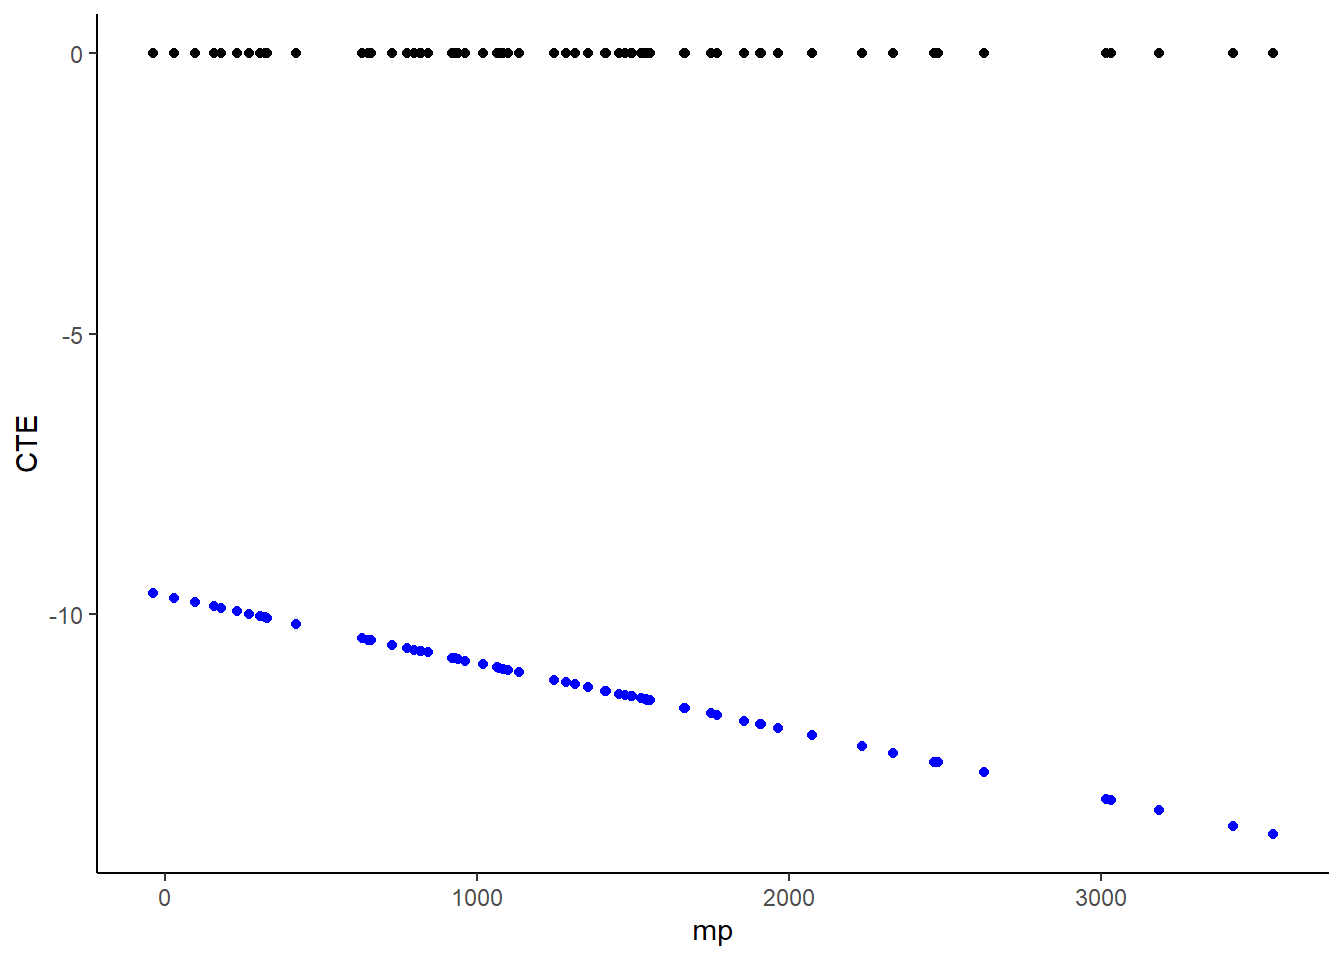
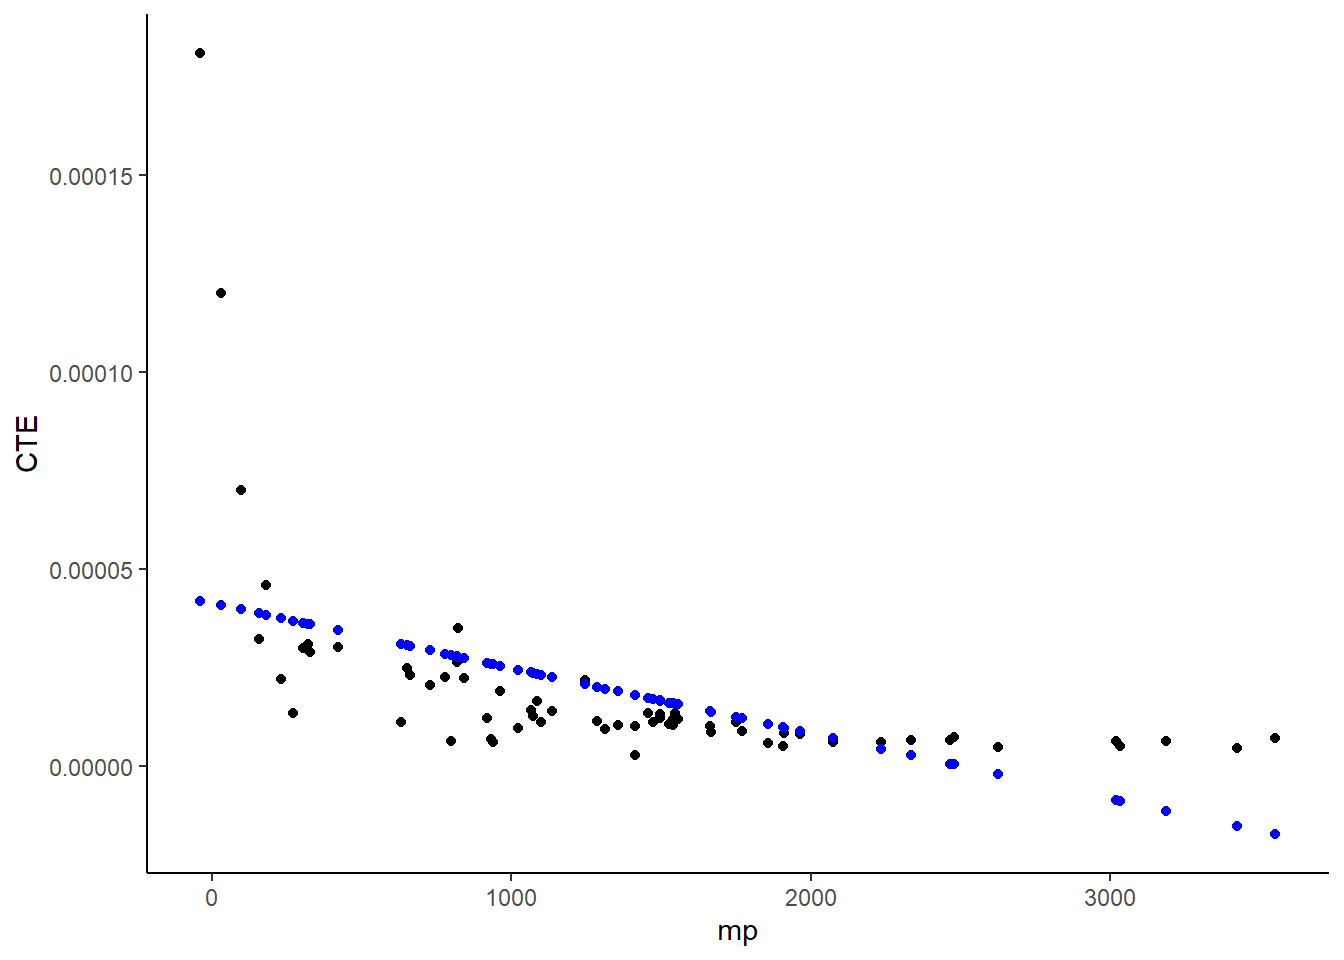
comp

diff --git a/content/post/2020-07-03-compositional-analysis.html b/content/post/2020-07-03-compositional-analysis.html
@@ -128,9 +128,7 @@ head(dd)</code></pre>
   return(1/(16.6*3*(x+273)))
 }
 
-f2 &lt;- function(){
-  ifelse(x&lt;0,-x,-x)
-}
+
 library(plotly)
 library(ggrepel)
 data %&gt;% 
@@ -146,7 +144,7 @@ data %&gt;%
   theme_classic()</code></pre>
 <p><img src="/post/2020-07-03-compositional-analysis_files/figure-html/unnamed-chunk-5-1.png" width="672" /></p>
 <pre class="r"><code>library(broom)
-augment(glm(CTE ~ mp, data = data, family = &quot;binomial&quot;)) %&gt;%
+augment(lm(CTE ~ mp, data = data)) %&gt;%
   ggplot(aes(mp,CTE))+
   geom_point()+
   geom_point(aes(mp, .fitted), colour= &quot;blue&quot;)+

diff --git a/public/2020/07/03/compositional-analysis/index.html b/public/2020/07/03/compositional-analysis/index.html
@@ -196,9 +196,7 @@ head(dd)</code></pre>
   return(1/(16.6*3*(x+273)))
 }
 
-f2 &lt;- function(){
-  ifelse(x&lt;0,-x,-x)
-}
+
 library(plotly)
 library(ggrepel)
 data %&gt;% 
@@ -214,7 +212,7 @@ data %&gt;%
   theme_classic()</code></pre>
 <p><img src="/post/2020-07-03-compositional-analysis_files/figure-html/unnamed-chunk-5-1.png" width="672" /></p>
 <pre class="r"><code>library(broom)
-augment(glm(CTE ~ mp, data = data, family = &quot;binomial&quot;)) %&gt;%
+augment(lm(CTE ~ mp, data = data)) %&gt;%
   ggplot(aes(mp,CTE))+
   geom_point()+
   geom_point(aes(mp, .fitted), colour= &quot;blue&quot;)+
